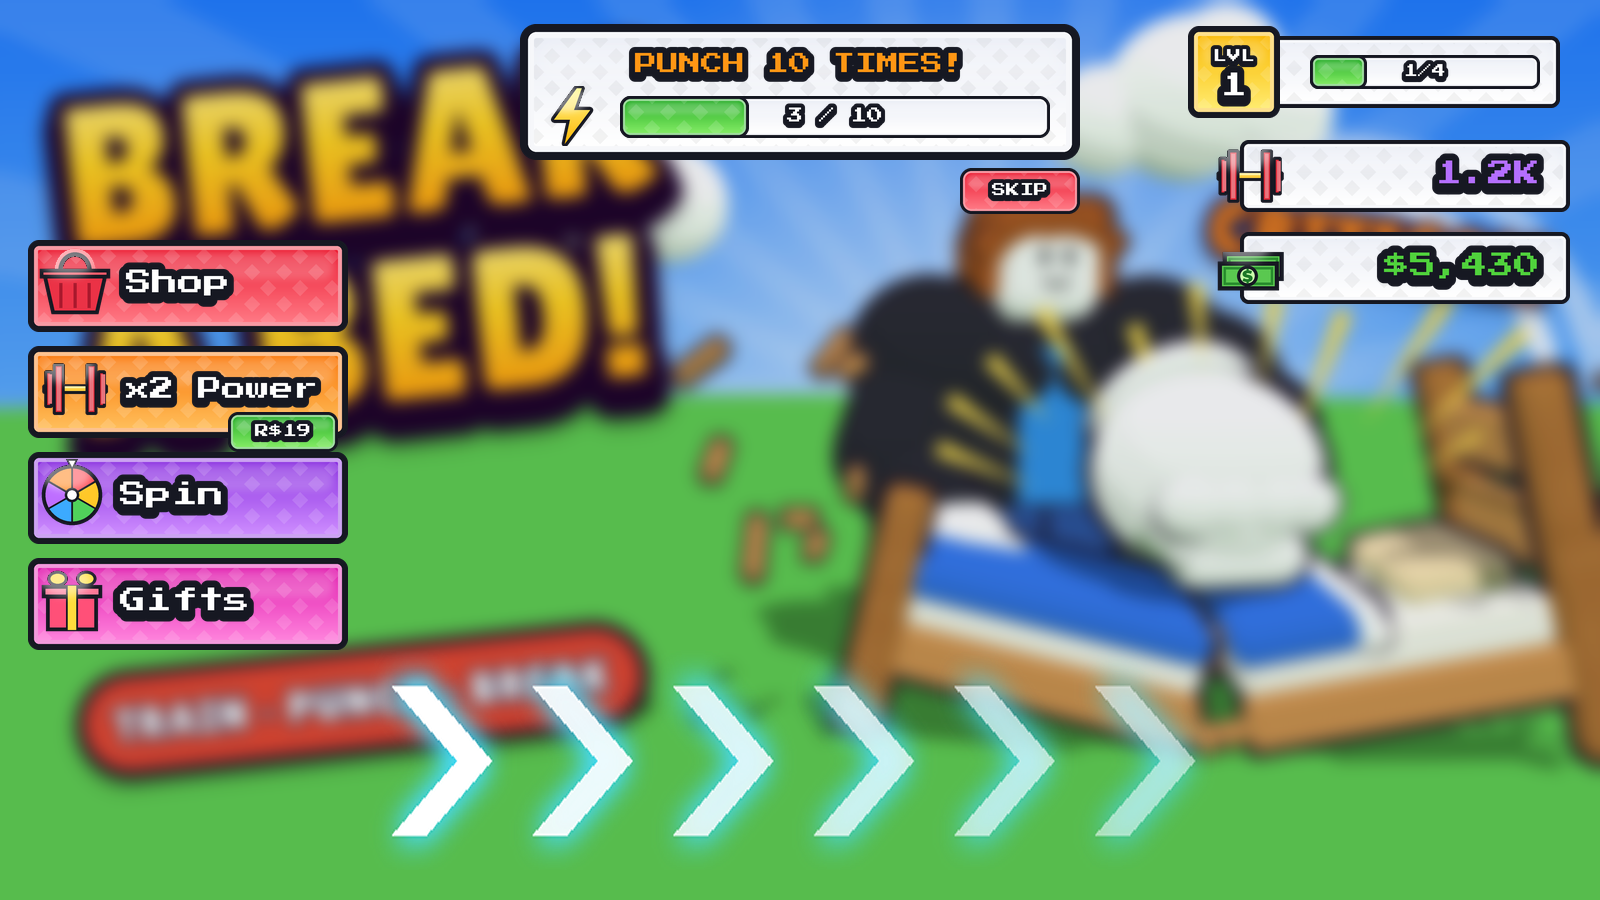
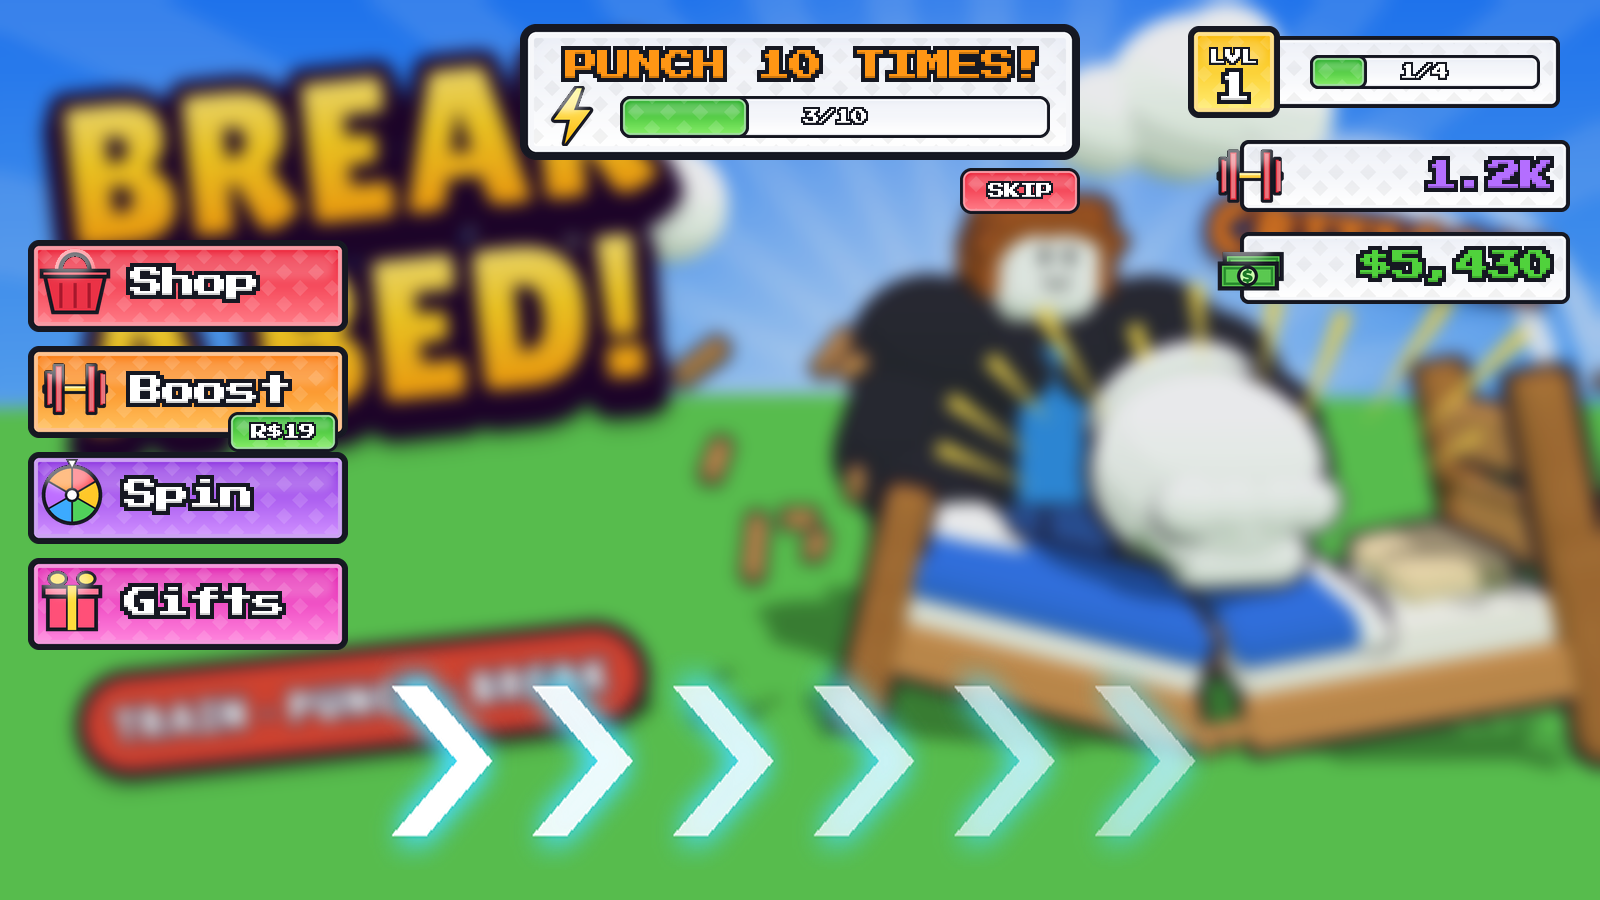
Break A Bed: chunky pixel text matching the Shop reference
Claude-Session: https://claude.ai/code/session_016uvrS3Ui1ijFbyufuEdzSK

diff --git a/Break A Bed/UI Kit/source/pixel.py b/Break A Bed/UI Kit/source/pixel.py
@@ -56,22 +56,14 @@ def pbtn(w, h, col, radius=0.12, pat=True, dark_pat=False):
     img.alpha_composite(Image.merge('RGBA', [Image.new('L', (W, H), 255)] * 3 + [gl]))
     return img.resize((w, h), Image.LANCZOS)
 
+import pixtext
 def ptext(img, xy, s, size, fill=(255, 255, 255), anchor='lm'):
-    f = ImageFont.truetype(PFONT, size * S)
-    sw = max(2, round(size * 0.26)) * S
-    tw = int(f.getlength(s)) + 4 * sw
-    tmp = Image.new('RGBA', (tw, int(size * 2.2 * S)), (0, 0, 0, 0)); d = ImageDraw.Draw(tmp)
-    c = (tmp.width / 2, tmp.height / 2)
-    d.text((c[0], c[1] + size * 0.16 * S), s, font=f, anchor='mm', fill=OUTLINE, stroke_width=sw, stroke_fill=OUTLINE)
-    d.text(c, s, font=f, anchor='mm', fill=fill, stroke_width=sw, stroke_fill=OUTLINE)
-    t = tmp.resize((tmp.width // S, tmp.height // S), Image.LANCZOS)
-    x = xy[0] - (t.width / 2 if anchor == 'mm' else (t.width if anchor == 'rm' else 4 * sw / S / 2))
-    img.alpha_composite(t, (int(x), int(xy[1] - t.height / 2)))
+    pixtext.put(img, (xy[0], xy[1]), s, size * 1.7, fill=fill, anchor=anchor)
 
 def wide(col, ic, text, w=320, h=92, tsize=26):
     b = pbtn(w, h, col)
     b.alpha_composite(ic, (8, (h - ic.height) // 2 - 3))
-    while ImageFont.truetype(PFONT, tsize).getlength(text) + tsize * 0.6 > w - ic.width - 34: tsize -= 1
+    while pixtext.render(text, max(1, round(tsize * 1.7 / 20))).width > w - ic.width - 34 and tsize > 8: tsize -= 2
     ptext(b, (ic.width + 20, h / 2 - 3), text, tsize)
     return b
 
@@ -92,7 +84,7 @@ def main(bgpath, out):
     W, H = 1600, 900
     bg = Image.open(bgpath).convert('RGBA').resize((W, H)).filter(ImageFilter.GaussianBlur(8))
     img = Image.blend(bg, Image.new('RGBA', (W, H), (30, 40, 60, 255)), 0.1)
-    rows = [('red', basket(78), 'Shop'), ('orange', gloss(dumbbell(78)), 'x2 Power'),
+    rows = [('red', basket(78), 'Shop'), ('orange', gloss(dumbbell(78)), 'Boost'),
             ('purple', gloss(icon('wheel', 72)), 'Spin'), ('pink', gloss(icon('gift', 72)), 'Gifts')]
     for i, (c, ic, t) in enumerate(rows):
         img.alpha_composite(wide(c, ic, t), (28, 240 + i * 106))
@@ -101,7 +93,7 @@ def main(bgpath, out):
     # stats (light)
     lv = Image.new('RGBA', (400, 110), (0, 0, 0, 0))
     lp = pbtn(330, 72, 'light', dark_pat=True); lv.alpha_composite(lp, (50, 18))
-    b = bar(230, 34, 0.25, 'green'); ptext(b, (115, 16), '1/4', 14, anchor='mm'); lv.alpha_composite(b, (130, 37))
+    b = bar(230, 34, 0.25, 'green'); ptext(b, (115, 16), '1/4', 15, anchor='mm'); lv.alpha_composite(b, (130, 37))
     badge = pbtn(92, 92, 'yellow'); ptext(badge, (46, 30), 'LVL', 14, anchor='mm'); ptext(badge, (46, 60), '1', 26, anchor='mm')
     lv.alpha_composite(badge, (8, 8))
     img.alpha_composite(lv, (W - 420, 18))
@@ -111,7 +103,7 @@ def main(bgpath, out):
     tc = pbtn(560, 136, 'light', dark_pat=True)
     ptext(tc, (280, 40), 'PUNCH 10 TIMES!', 22, fill=(255, 150, 20), anchor='mm')
     tc.alpha_composite(gloss(icon('bolt', 60)), (22, 62))
-    tb = bar(430, 42, 0.3, 'green'); ptext(tb, (215, 20), '3 / 10', 16, anchor='mm'); tc.alpha_composite(tb, (100, 72))
+    tb = bar(430, 42, 0.3, 'green'); ptext(tb, (215, 20), '3/10', 17, anchor='mm'); tc.alpha_composite(tb, (100, 72))
     img.alpha_composite(tc, (int(W / 2 - 280), 24))
     sk = pbtn(120, 46, 'red', radius=0.25); ptext(sk, (60, 22), 'SKIP', 14, anchor='mm')
     img.alpha_composite(sk, (int(W / 2 + 280 - 120), 168))

diff --git a/Break A Bed/UI Kit/source/pixtext.py b/Break A Bed/UI Kit/source/pixtext.py
@@ -1,0 +1,40 @@
+"""Chunky pixel text like the owner's 'Shop' reference: Press Start 2P made bold by one font-pixel,
+a hard-edged black outline one font-pixel wide, and a light grey bottom edge inside each letter."""
+import os
+from PIL import Image, ImageDraw, ImageFont, ImageFilter, ImageChops
+PFONT = os.path.join(os.path.dirname(__file__), '..', 'fonts', 'PressStart2P.ttf')
+OUT = (22, 24, 34)
+
+def render(s, unit=4, fill=(255, 255, 255), shade=None):
+    f = ImageFont.truetype(PFONT, 16)             # 16 px = 2 px per font pixel
+    w = int(f.getlength(s)) + 12
+    m = Image.new('L', (w, 26), 0)
+    ImageDraw.Draw(m).text((6, 5), s, font=f, fill=255)
+    m = m.point(lambda v: 255 if v > 100 else 0)
+    bold = Image.new('L', m.size, 0)            # thicken right and down by one font pixel
+    for dx, dy in ((0, 0), (1, 0)):
+        bold = ImageChops.lighter(bold, ImageChops.offset(m, dx, dy))
+    outline = bold.filter(ImageFilter.MaxFilter(5))
+    shade_m = ImageChops.subtract(bold, ImageChops.offset(bold, 0, -1))   # bottom row of each stroke
+    shade = shade or tuple(int(c * 0.82) for c in fill)
+    im = Image.new('RGBA', m.size, (0, 0, 0, 0))
+    im.paste(OUT + (255,), (0, 0), outline)
+    im.paste(fill + (255,), (0, 0), bold)
+    im.paste(shade + (255,), (0, 0), shade_m)
+    bb = im.getbbox()
+    im = im.crop(bb)
+    return im.resize((im.width * unit, im.height * unit), Image.NEAREST)
+
+def put(img, xy, s, height, fill=(255, 255, 255), anchor='lm'):
+    unit = max(1, round(height / 20))
+    t = render(s, unit, fill)
+    x, y = xy
+    if anchor == 'mm': x -= t.width / 2
+    elif anchor == 'rm': x -= t.width
+    img.alpha_composite(t, (int(x), int(y - t.height / 2)))
+    return t.width
+
+if __name__ == '__main__':
+    bg = Image.new('RGBA', (900, 200), (240, 70, 80, 255))
+    put(bg, (40, 100), 'Shop', 70); put(bg, (420, 100), 'Gifts 1/4', 40)
+    bg.convert('RGB').save('pixtext_test.png')

diff --git a/Break A Bed/UI Kit/UI Kit.md b/Break A Bed/UI Kit/UI Kit.md
@@ -36,6 +36,7 @@ None of the images have text in them. Text stays as Roblox TextLabels so numbers
 | `fx-sparkle.png` | 128 × 128 | White 4-point twinkle around items |
 | `fx-glow.png` | 256 × 256 | Soft white glow behind item icons |
 | `icon-check.png`, `icon-dumbbell.png`, `icon-gear.png`, `icon-basket.png` | 256 × 256 | Claimed check, Strength packs, Settings button, SHOP button |
+| `text-<label>.png` | various | Chunky pixel text for fixed labels (Shop, Boost, Spin, Gifts, Settings, SKIP, LVL) |
 | `pixel-btn-<color>.png` | 400 × 116 | Main-screen wide buttons (gradient, diamonds, light inner border) |
 | `pixel-panel-light.png`, `pixel-badge-yellow.png`, `pixel-bar-track.png`, `pixel-bar-green.png` | various | Light stat panels, LVL badge, progress bars |
 | `fx-arrow-chevron.png` | 256 × 256 | Arrow texture for the ground path `Beam` |
@@ -77,8 +78,10 @@ Keep the **old layout**: wide buttons down the left side, stat bars at the top r
 
 ![[preview-hud.png]]
 
-- **Wide buttons** (`pixel-btn-<color>.png`, 400 × 116, shown at about 320 × 92): the icon fills the left 25% (`icon-basket.png` for Shop, `icon-dumbbell.png`, `icon-wheel.png`, `icon-gift.png`), and the label sits right after it. Colors: Shop red, x2 Power orange (with a small green price tag "R$19" hanging off its bottom-right), Spin purple, Gifts pink. Corners `UICorner` about 12%.
-- **Font:** `Font.new("rbxasset://fonts/families/PressStart2P.json")` (Roblox's pixel font, also `Enum.Font.Arcade`). White, `UIStroke` `#161822`, Thickness about 26% of the text size, plus a dark shadow copy 16% lower. Big menus keep Montserrat Heavy.
+- **Wide buttons** (`pixel-btn-<color>.png`, 400 × 116, shown at about 320 × 92): the icon fills the left 25% (`icon-basket.png` for Shop, `icon-dumbbell.png`, `icon-wheel.png`, `icon-gift.png`), and the label sits right after it. Colors: Shop red, Boost orange (the x2 Strength button, with a small green price tag "R$19" hanging off its bottom-right), Spin purple, Gifts pink. Corners `UICorner` about 12%.
+- **Pixel text exactly like the owner's "Shop" reference:** chunky (thicker than plain Press Start 2P), white, a **hard-edged** black outline that follows the pixels (square corners, not round), and a light grey bottom edge inside each letter.
+  - **Fixed button labels** use the ready-made images `text-shop.png`, `text-boost.png`, `text-spin.png`, `text-gifts.png`, `text-settings.png`, `text-skip.png`, `text-lvl.png` (ImageLabel, `ScaleType = Fit`, `ResampleMode = Pixelated` so they stay crisp).
+  - **Changing text** (numbers, timers, tutorial steps) uses two stacked TextLabels with `Font.new("rbxasset://fonts/families/PressStart2P.json")`: the **back** one is dark `#161822` with a `UIStroke` (dark, Thickness ≈ 18% of the text size, `LineJoinMode = Miter`) and is moved 2 px down; the **front** one is white (or the stat color) with a `UIStroke` in the **same color as the text** (Thickness ≈ 8% of the text size, `LineJoinMode = Miter`). The front stroke makes the letters chunky, and the back stroke is the black outline. Big menus keep Montserrat Heavy.
 - **Gradient colors (top → bottom):** red `#EC1E34 → #FF7884`, orange `#FA780A → #FFBE5A`, purple `#8C32E1 → #CD8CFF`, pink `#E11EAF → #FF82DC`, green `#28AF28 → #82EB64`, blue `#196EE1 → #6EB9FF`, yellow `#FAB900 → #FFEB6E`. The light inner border is the top color mixed 55% with white.
 - **Stats (top right):** light panels (`pixel-panel-light.png`: `#EBEEF6 → #FFFFFF`, faint grey diamonds, dark outline). The icon sticks out on the left, and the value is right-aligned in the pixel font, colored: Strength purple `#B46EFF`, Cash green `#50D23C`. Level has a yellow badge (`pixel-badge-yellow.png`, "LVL" + number) and a progress bar (`pixel-bar-track.png` + `pixel-bar-green.png`).
 - **Tutorial card:** a light panel with an orange pixel-font title `#FF9614`, a bolt icon and the light track + green fill bar. SKIP is a small red pixel button.
